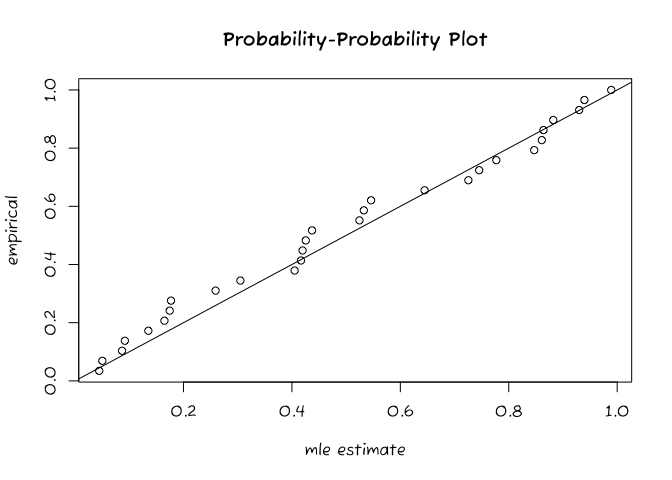
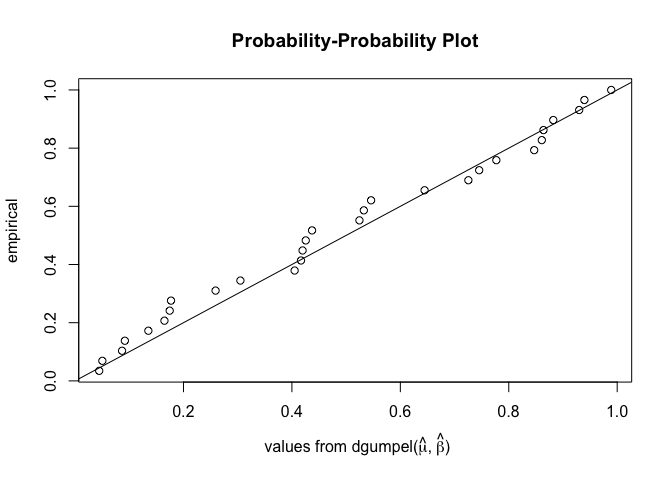
minor changes again

diff --git a/README.md b/README.md
@@ -763,7 +763,6 @@ distribution*](https://en.wikipedia.org/wiki/Gumbel_distribution). Here
 is the plot generating code I came up with.
 
 ``` r
-par(family = "serif")
 # Gumpel, cumulative distribution function (cdf) 
 dgumpel <- function(x, mu, beta) {
   # mu = location; beta = scale 
@@ -792,13 +791,14 @@ invisible(x =
                                   xlab = "", ylab = "", yaxt = "n",
                                   main = substitute(paste(bold("Cumulative Distribution Function"))),
                                   # reduce box margins around limits 
-                                  xaxs = "i", yaxs  ="i")
+                                  xaxs = "i", yaxs  ="i",
+                                  family = "Informal")
                      )
                    )
           )
-axis(side = 2L, at = seq(0L, 1L, by = .1), las = 2)
-axis(side = 3L, labels = FALSE); axis(side = 4L, at = seq(0L, 1L, by = .1), labels = FALSE)
-legend(x = "bottomright", 
+axis(side = 2L, at = seq(0L, 1L, by = .1), las = 2, family = "Informal")
+axis(side = 3L, labels = FALSE); axis(side = 4L, at = seq(0L, 1L, by = .1), labels = FALSE, family = "Informal")
+legend(x = 6, y = .5, 
        legend = unlist(lapply(X = 1L:nrow(param_combinations), 
                               FUN = \(j) 
                               bquote("F(x, " * mu *"="*.(param_combinations[j, "mu"]) 
@@ -869,7 +869,7 @@ with(data = amodr_data,
        plot(x = year, y = amodr, col = pal(length(amodr))[ord],
             xaxt = "n", ylab = "rainfall [mm]", pch = 19L
        ) 
-       axis(side = 1, at = seq(from = min(year), to = max(year), by = 2L))
+       axis(side = 1, at = seq(from = min(year), to = max(year), by = 2L), las = 3L)
        # corresponding ecdf plot
        plot(x = ecdf(amodr), verticals = TRUE, main = "")
        }
@@ -919,7 +919,7 @@ library(EnvStats)
     ##                                  UCL = 35.63013
 
 ``` r
-plot(x = ecdf(amodr_data$amodr), verticals = TRUE, main = "", family = "Fuzzy Bubbles")
+plot(x = ecdf(amodr_data$amodr), verticals = TRUE, main = "", family = "Informal")
 
 curve(expr = dgumpel(x = x,
                      mu = mle$parameters[[1L]],
@@ -956,14 +956,13 @@ counterpart. In the following, we create a so-called *P-P plot* (p $=$
 probability):
 
 ``` r
-par(family = "Informal")
 with(data = amodr_data, 
      expr = plot(y = ecdf(amodr)(amodr),
                  x = dgumpel(x = amodr,
                  mu = mle$parameters[[1L]],
                  beta = mle$parameters[[2L]]), 
                  main = "Probability-Probability Plot",
-                 xlab = "mle estimate", ylab = "empirical")
+                 xlab = bquote(" values from dgumpel(" * hat(mu) *  "," ~ hat(beta) * ")"), ylab = "empirical")
      )
 abline(a = 0, b = 1)
 ```
